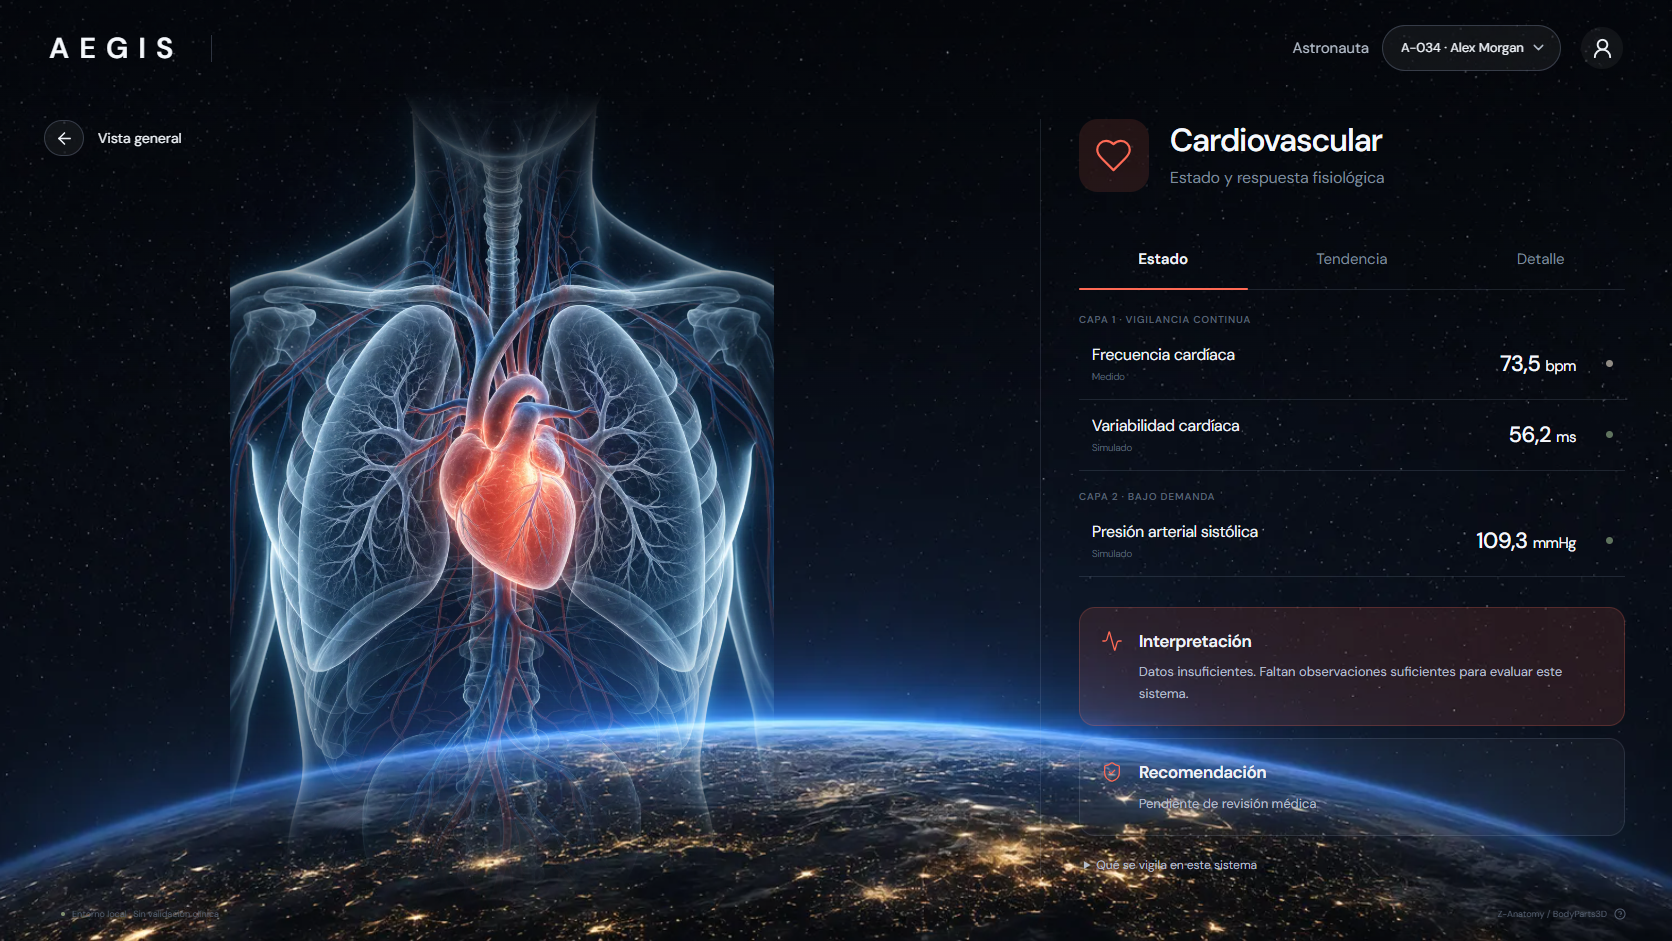
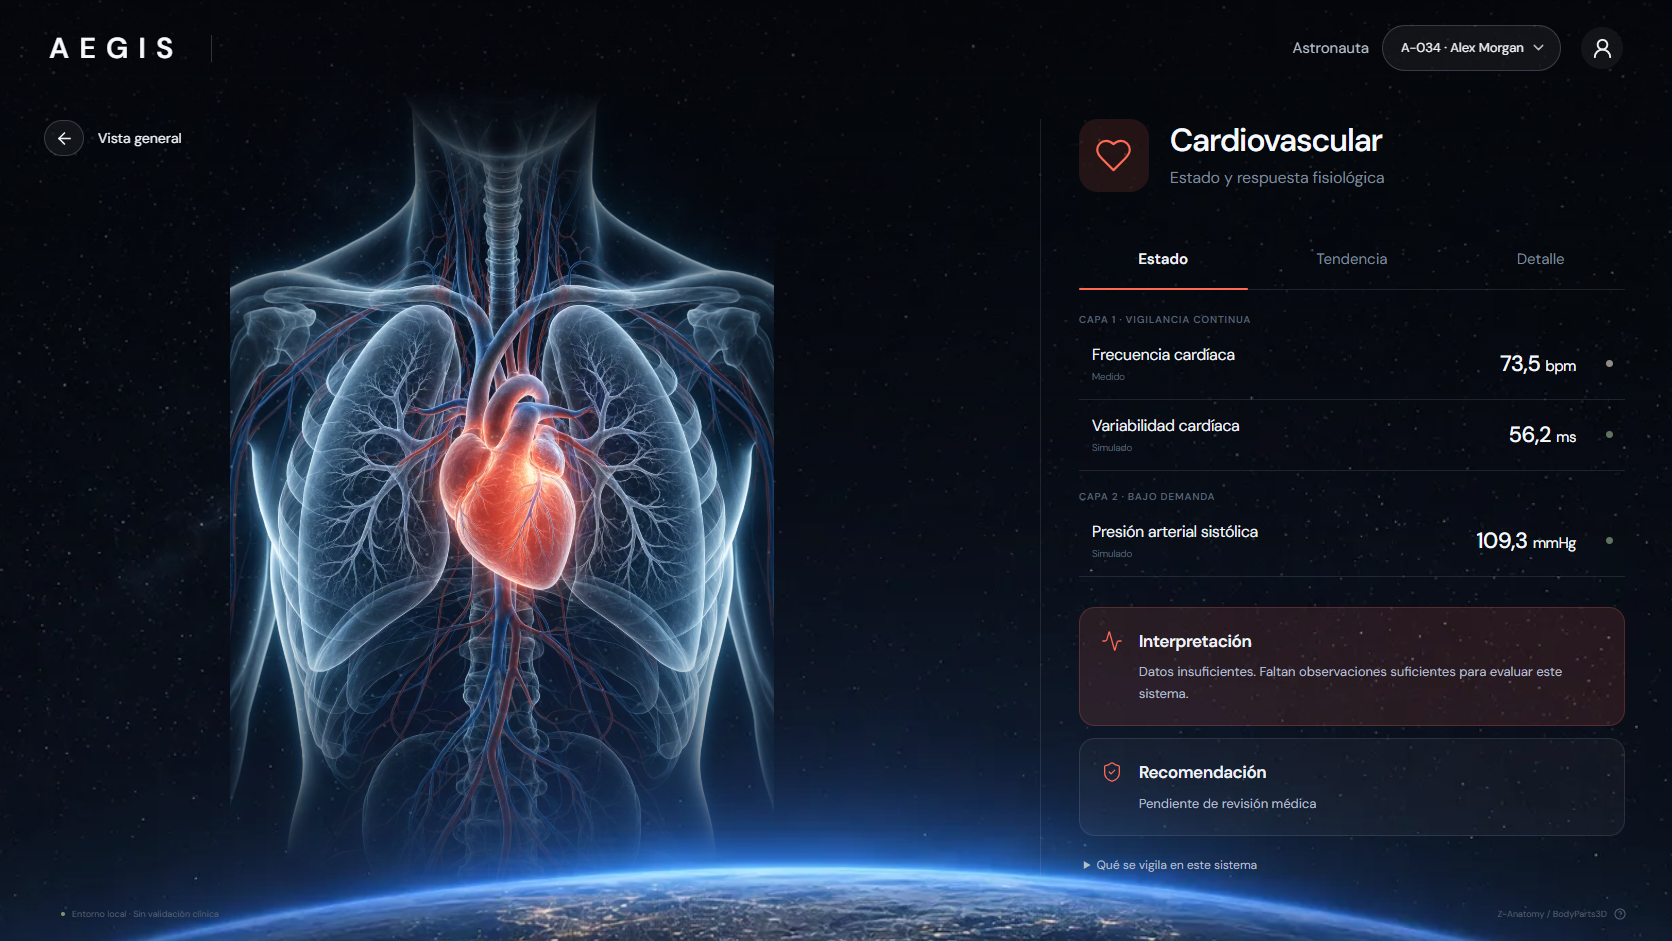
style: hologram glass atlas, warm glow on the selected system, Earth as a lower sliver
Skin, muscle, tendon and bone render as additive cyan-rimmed glass; organs are
dark translucent; the selected system is drawn solid with a warm glow. The
space backdrop is pushed down so only the edge of Earth shows.

Changed region(s): [[0.0, 0.6472, 1.0, 1.0]]

diff --git a/frontend/src/AnatomyViewer.tsx b/frontend/src/AnatomyViewer.tsx
@@ -8,7 +8,9 @@ import {
   Color,
   Group,
   Mesh,
+  AdditiveBlending,
   MeshStandardMaterial,
+  NormalBlending,
   PerspectiveCamera,
   PMREMGenerator,
   Vector3,
@@ -112,61 +114,72 @@ interface Look {
   power: number;
   rim: string;
   rimStrength: number;
+  /** Light-emitting glass: added to the dark backdrop instead of covering it. */
+  additive?: boolean;
 }
 const ORGAN: Omit<Look, 'color'> = {
-  roughness: 0.42,
-  core: 0.88,
-  power: 2.2,
-  rim: '#ffffff',
-  rimStrength: 0.18,
+  roughness: 0.4,
+  core: 0.7,
+  power: 2,
+  rim: '#cfe8ff',
+  rimStrength: 0.3,
 };
-/** Porcelain studio palette: frosted white tissue, ivory bone, red only where blood is. */
+/**
+ * Hologram palette for the dark theme: skin, muscle, tendon and bone are additive glass
+ * (mostly rim light), organs stay solid enough to read, and the selected system glows warm.
+ */
 const LOOKS: Record<string, Look> = {
   skin: {
-    color: '#c9d3df',
-    roughness: 0.34,
-    core: 0.14,
-    headCore: 0.95,
-    power: 2,
-    rim: '#bfe4ff',
-    rimStrength: 0.75,
+    color: '#1b2a3a',
+    roughness: 0.3,
+    core: 0.05,
+    headCore: 0.3,
+    power: 2.2,
+    rim: '#9fdcff',
+    rimStrength: 1.1,
+    additive: true,
   },
   muscle: {
-    color: '#aab6c4',
+    color: '#22303f',
     roughness: 0.4,
-    core: 0.62,
-    power: 1.5,
-    rim: '#cfe8ff',
-    rimStrength: 0.34,
+    core: 0.35,
+    power: 1.6,
+    rim: '#6fb8ff',
+    rimStrength: 0.55,
+    additive: true,
   },
   tendon: {
-    color: '#c7d1dc',
-    roughness: 0.34,
-    core: 0.6,
+    color: '#2a3a4a',
+    roughness: 0.35,
+    core: 0.4,
     power: 1.5,
-    rim: '#ffffff',
-    rimStrength: 0.2,
+    rim: '#9fd0ff',
+    rimStrength: 0.4,
+    additive: true,
   },
   skeleton: {
-    color: '#e4eaf1',
-    roughness: 0.55,
-    core: 0.95,
-    power: 2.4,
-    rim: '#ffffff',
-    rimStrength: 0.14,
+    color: '#4b5b6e',
+    roughness: 0.5,
+    core: 0.7,
+    power: 2,
+    rim: '#d8eeff',
+    rimStrength: 0.45,
+    additive: true,
   },
-  lung: { ...ORGAN, color: '#d8d3d0', core: 0.45, power: 1.4, rimStrength: 0.32 },
-  airway: { ...ORGAN, color: '#e7e0da' },
-  digestive: { ...ORGAN, color: '#ddd5cf' },
-  liver: { ...ORGAN, color: '#d3c7c0' },
-  viscera: { ...ORGAN, color: '#ddd4ce' },
-  kidney: { ...ORGAN, color: '#d8c9c2' },
-  brain: { ...ORGAN, color: '#e8e0dc' },
-  eye: { ...ORGAN, color: '#f4f1eb' },
-  cardiac: { ...ORGAN, color: '#c94636', core: 0.97, rim: '#ffd9cf' },
-  cardiac_artery: { ...ORGAN, color: '#cf4e3e', core: 0.97, rim: '#ffd9cf' },
-  cardiac_vein: { ...ORGAN, color: '#b6574f', core: 0.97, rim: '#ffd9cf' },
+  lung: { ...ORGAN, color: '#3d5266', core: 0.22, power: 1.4, rimStrength: 0.5 },
+  airway: { ...ORGAN, color: '#4d6174' },
+  digestive: { ...ORGAN, color: '#3f5063', core: 0.45 },
+  liver: { ...ORGAN, color: '#45505f', core: 0.5 },
+  viscera: { ...ORGAN, color: '#415264', core: 0.45 },
+  kidney: { ...ORGAN, color: '#4a4f5e' },
+  brain: { ...ORGAN, color: '#55677a' },
+  eye: { ...ORGAN, color: '#7d8fa3' },
+  cardiac: { ...ORGAN, color: '#d2452f', core: 0.97, rim: '#ffb59f', rimStrength: 0.5 },
+  cardiac_artery: { ...ORGAN, color: '#de4c34', core: 0.97, rim: '#ffb59f', rimStrength: 0.5 },
+  cardiac_vein: { ...ORGAN, color: '#b24a45', core: 0.97, rim: '#ffb59f', rimStrength: 0.5 },
 };
+const SELECTED_GLOW = new Color('#ff4a2e');
+const BLACK = new Color('#000000');
 const ALERT_COLOR = new Color('#de3b2c');
 const REGION_INDEX = ['heart', 'lungs', 'kidneys', 'brain', 'skeleton', 'muscles', 'metabolic', 'skin'];
 const MAX_SPOTS = 4;
@@ -217,7 +230,8 @@ function materialFor(tissue: string, region: string, spots: SpotUniforms) {
     transparent: true,
     opacity: 1,
     depthWrite: false,
-    envMapIntensity: tissue === 'skin' ? 1 : 0.75,
+    blending: look.additive ? AdditiveBlending : NormalBlending,
+    envMapIntensity: LOOKS[tissue]?.additive ? 0.35 : 0.6,
   });
   const uniforms = {
     aegisCore: { value: look.core },
@@ -302,12 +316,12 @@ function opacityFor(part: MeshInfo, selected: string, mode: ViewMode) {
     return active ? 0.98 : 0.16;
   }
   const zoom = mode === 'zoom';
-  if (region === 'skin') return zoom ? 0.5 : 0.64;
-  if (tissue === 'tendon') return active ? 0.85 : zoom ? 0.3 : 0.45;
-  if (region === 'muscles') return active ? 0.94 : zoom ? 0.46 : 0.72;
-  if (region === 'skeleton') return active ? 0.98 : 0.9;
-  if (tissue === 'lung') return active ? 0.86 : zoom ? 0.42 : 0.5;
-  return active ? 0.98 : 0.86;
+  if (region === 'skin') return zoom ? 0.75 : 0.9;
+  if (tissue === 'tendon') return active ? 0.85 : 0.35;
+  if (region === 'muscles') return active ? 0.92 : zoom ? 0.35 : 0.45;
+  if (region === 'skeleton') return active ? 0.96 : 0.55;
+  if (tissue === 'lung') return active ? 0.88 : 0.4;
+  return active ? 0.98 : 0.5;
 }
 
 const layerOf = (part: MeshInfo): keyof LayersState =>
@@ -366,7 +380,12 @@ function Anatomy({
         part.material.opacity = target;
         part.material.userData.initialized = true;
       }
-      part.material.depthWrite = target >= 0.95 && (part.material.userData.look as Look).core > 0.9;
+      const look = part.material.userData.look as Look;
+      const glowing = part.region === selected && part.region !== 'skin';
+      part.material.blending = look.additive && !glowing ? AdditiveBlending : NormalBlending;
+      part.material.emissive.copy(glowing ? SELECTED_GLOW : BLACK);
+      part.material.emissiveIntensity = glowing ? 0.55 : 0;
+      part.material.depthWrite = target >= 0.95 && look.core > 0.9;
     }
     invalidate();
   }, [parts, selected, focused, isolate, layers, invalidate, hiddenRegion, visible]);

diff --git a/frontend/src/anatomy.css b/frontend/src/anatomy.css
@@ -2354,8 +2354,8 @@ button.sensing-chip:hover {
   --line: var(--hairline);
   color: var(--ink);
   background:
-    linear-gradient(180deg, rgba(4, 6, 11, 0.55) 0%, rgba(4, 6, 11, 0) 45%),
-    url('/media/backdrop.webp') center bottom / cover no-repeat,
+    linear-gradient(180deg, rgba(4, 6, 11, 0.7) 0%, rgba(4, 6, 11, 0) 60%),
+    url('/media/backdrop.webp') center calc(100% + 21vh) / max(150vw, 220vh) auto no-repeat,
     var(--space);
   color-scheme: dark;
 }
